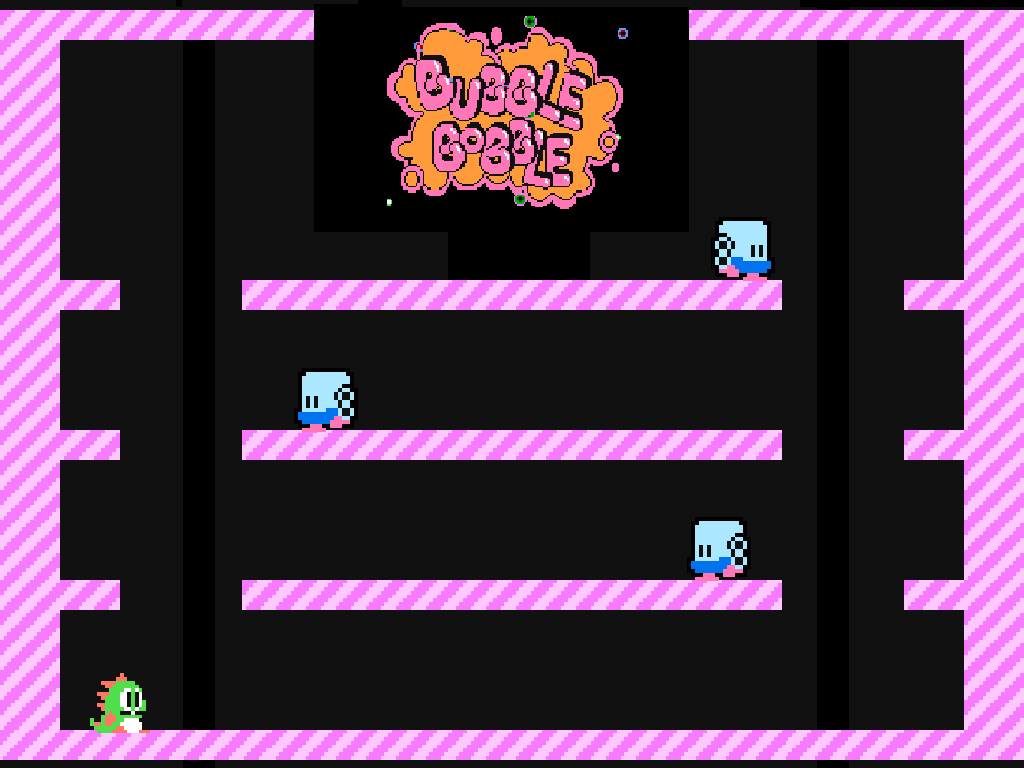
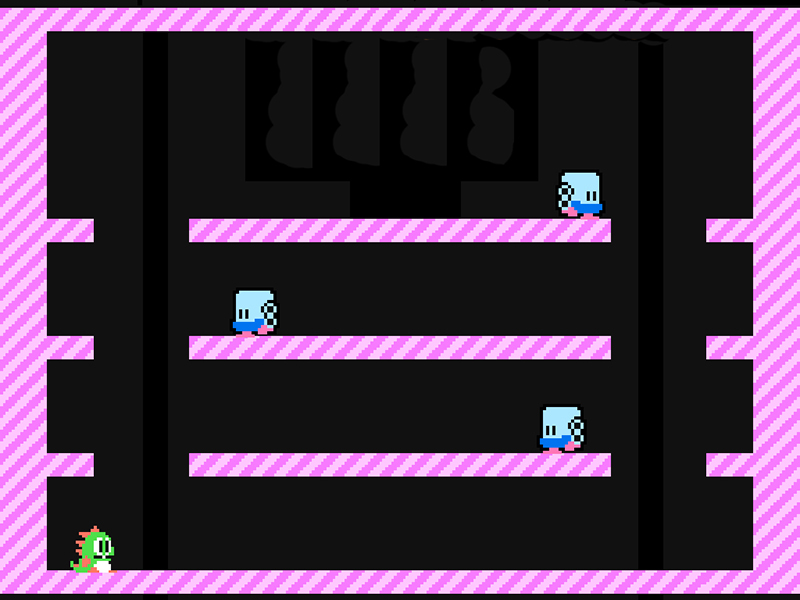
Cambios para añadir backgrounds

Changed region(s): [[0.2812, 0.0, 0.8438, 0.27]]

diff --git a/src/js/States.js b/src/js/States.js
@@ -11,17 +11,26 @@ class Preload extends Phaser.State{
 			'ball', 'images/sprites/blueball.png', 
 			'gball', 'images/sprites/redball.png', 
 			'fall', 'images/sprites/phaser.png',
-			'hook', 'images/sprites/hookTop.png',
+			'hook', 'images/sprites/hookTop.png', 
 
 			'loading', 'images/fondos/loading.png', // Pantalla de carga
 			'title', 'images/fondos/title.jpg' // Pantalla de inicio
 		];
 
 		this.sheets = [
-			'player', 'images/sprites/player1.png', 1600/4, 1200/3,
-			'player2', 'images/sprites/player2.png', 1600/4, 1200/3,
-			'button', 'images/botones/buttons.png', 448/2, 84, // boton del menu de inicio
-			'mutebutton', 'images/botones/mutebutton.png', 64/2, 32 // boton de mute de la musica
+			//label, ruta, anchoFrame, altoFrame, nº frames, margen, espaciado
+			'player', 'images/sprites/player1.png', 1600/4, 1200/3, , , ,
+			'player2', 'images/sprites/player2.png', 1600/4, 1200/3, , , ,
+			'button', 'images/botones/buttons.png', 448/2, 84, , , , // boton del menu de inicio
+			'mutebutton', 'images/botones/mutebutton.png', 64/2, 32, , , ,
+			'normalBackground', 'images/fondos/backgrounds.jpg', 4467/2, 33602/20, 40, 134, 199
+		];
+
+		// Fondos especiales de un solo "uso"
+		this.specialBackgrounds = [
+			'bobble', 'images/special/bubbleBobble back.jpg',
+			'tloz', 'images/special/tloz timeTemple.png', 
+			'mario', 'images/special/Mario background.png'
 		];
 
 		this.audios = [
@@ -33,7 +42,7 @@ class Preload extends Phaser.State{
 		];
 
 		// Mapas de juego
-    	this.maps = ['lvl', 'levels/levels.ping']; 
+    	this.maps = ['lvl', 'levels/levels.json']; 
 
 		secondPly = false; //desactiva el 2º jugador
 		
@@ -48,15 +57,21 @@ class Preload extends Phaser.State{
 			game.load.image(this.images[i], this.images[i+1]);
 		}
 		// Carga los spritesheet
-		for(var i = 0; i < this.sheets.length; i+=4){
-			game.load.spritesheet(this.sheets[i], this.sheets[i+1], this.sheets[i+2], this.sheets[i+3]);
+		//label, ruta, anchoFrame, altoFrame, nº frames, margen, espaciado
+		for(var i = 0; i < this.sheets.length; i+=7){
+			game.load.spritesheet(this.sheets[i], this.sheets[i+1], this.sheets[i+2], this.sheets[i+3], this.sheets[i+4], this.sheets[i+5], this.sheets[i+6]);
+			console.log('spritesheet '+ i);
 		}
-
+		// Carga los fondos especiaes
+		for(var i = 0; i<this.specialBackgrounds.length; i+=2){
+			game.load.image(this.specialBackgrounds[i], this.specialBackgrounds[i+1]);
+		}
+		// Carga los audios
 		for(var i = 0; i < this.audios.length;i+=2){
 			game.load.audio(this.audios[i],this.audios[i+1]);
 		}
 
-		 this.txt = game.load.json('lvl', 'levels/levels.json'); // carga el archivo 
+		 this.txt = game.load.json(this.maps[0], this.maps[1]); // carga el archivo 
 
 		console.log('preload preload');
 	}
@@ -141,7 +156,7 @@ class GameTitle extends Phaser.State{
 class LoadLevel extends Phaser.State{
 	init(){
 		nivelAcabado = false;
-
+		this.backLevels = ['normalBackground', 'bobble','tloz','mario' ]; // Etiquetas de los niveles y los niveles especiales
 		// INICIALIZADO DE CURSORES
 		// CREA PLAYERS
 		if(secondPly){
@@ -210,6 +225,15 @@ class LoadLevel extends Phaser.State{
 
 	create(){		
 		game.state.start('Main'); // Lanza el estado siguiente
+	}
+
+	// leer niveles para que cada 5 sea uno de los especiales
+	getBackground(){
+		if(currentLevel%5 != 0){
+			currentBack = this.backLevels[0];
+		}else{
+			currentLevel =this.backLevels[currentLevel/5];
+		}
 	}
 }
 

diff --git a/src/js/main.js b/src/js/main.js
@@ -11,6 +11,7 @@ var bubbles, platforms, players, secondPly; // grupos con las burbujas, platafor
 var vidasPlayers;
 var i;
 var currentLevel = 0;// nivel de juego
+var currentBack; // label del fondo a cargar
 var timeLeftLevel; // timepo restante para pasarse el nivel // sera timer
 var _timeBetweenLevels = 3; // tiempo entre niveles en segundos (lo que tarda en bailar)
 var nivelAcabado = false; // True mientras se ejecuta cosas inter niveles
